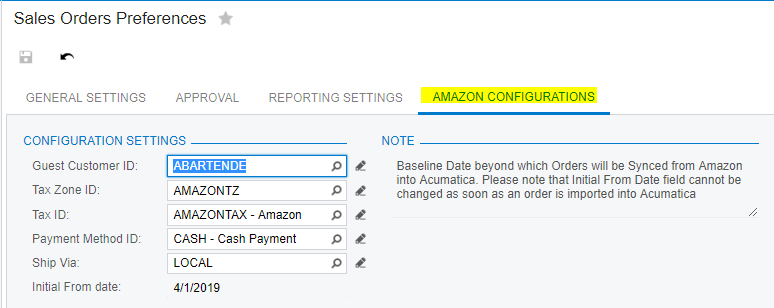
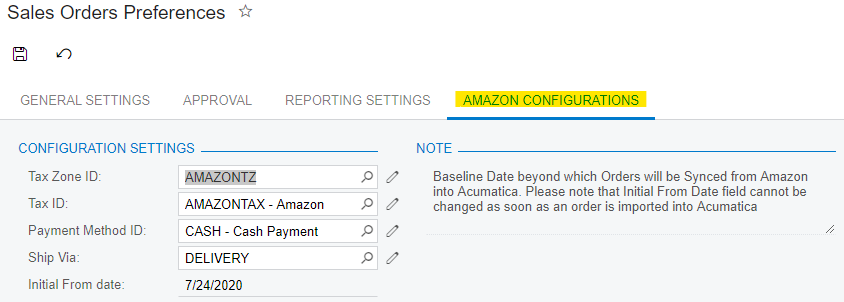
Update documentation for branch

diff --git a/README.md b/README.md
@@ -13,7 +13,7 @@ Seller sells and Amazon ships. Seller sends bulk products to Amazon’s fulfillm
 Seller lists the products on Amazon while handling storage and all aspects of order fulfillment. When products are sold, the integration imports FBM orders as sales orders. The seller is required to pick, pack, and ship products included on such orders. Shipment/Fulfilment details needs to be submitted back to Amazon using the integration. Amazon Orders with status Unshipped are retrieved during the import process.
 
 ### Prerequisites
-* Acumatica 2018 R2 (18.204.0013+) or higher
+* Acumatica 2019 R2 (18.210.0026+) or higher
 * Inventory/Stock, Products and Customers has to be setup prior using this integration. Product/Stock Item needs to be setup in Acumatica by either having matching Inventory ID OR Cross-Reference (Alternate ID) same as Amazon SellerSKU/ASIN (specified in Marketplace Configuration Field Mapping) 
 * This integration requires “Amazon Seller Professional Account” credentials for configuring integrations. Please visit (https://developer.amazonservices.com/) for more information on getting MWS Credentials.
 
@@ -39,7 +39,6 @@ Navigate to Sales Order Preferences (SO101000) -> Amazon Configuration Tab and s
 
  | Element               | Description |
  | :---                  | :--- |
- | **Guest Customer ID** | All imported Amazon orders will be associated to this specified customer.  |
  | **Tax Zone ID**       | This Tax ID will be default Tax ID to all imported Amazon orders. The details will be shown in Sales Order form’s Tax details tab. <ul><li>Only taxes which are created with the option “Propagate Manually Set Tax Amount from Sales Orders to Invoice” can be selected as default Tax ID</ul></li> |
  | **Payment Method ID** | This Payment Method will be applied to all imported Amazon orders. The details will be shown in Sales Order form’s Payments tab. |
  | **Ship Via**          | This Ship Via method will be applied to all imported Amazon orders. The details will be shown in Sales Order form’s Shipping settings tab. |
@@ -58,6 +57,7 @@ Marketplace Configuration Screen is used to control various features of the Inte
 | **Integration ID** | You can set a unique value that can be used to identify all the configuration details in other screens related to this integration ID. |
 | **Status** | This field is used to mark a specific Integration as Active / Inactive. If the integration is marked as Inactive, then system will not display the details/logs related to this specific integration. |
 | **Integration Type** | Available Integration Types : <ul><li>Amazon FBA</li><li>Amazon.ca FBA</li><li>Amazon.co.uk FBA</li><li>Amazon.de FBA</li><li>Amazon.jp FBA</li><li>Amazon.in FBA</li><li>Amazon FBM</li></ul> |
+| **Guest Customer ID** | All imported Amazon orders will be associated to this specified customer.  |
 | **Warehouse** | All active warehouses will be loaded from the system to select specific warehouse in Acumatica for order processing. All the imported orders under this specific integration will be associated to this configured warehouse by default. |
 | **Order Type** | All the active order types will be loaded from the system to select specific Order type. Based on the selected integration type these order type template will be loaded for selection. <ul><li>For FBA integrations types the system will display the “IN – Invoice” type templates for the selection, whereas for FBM Integration type it will display “SO – Sales Order” template order types.</li></ul> |
 | **Seller ID** | This field is used to configure the Amazon Marketplace Seller ID. |
@@ -205,8 +205,13 @@ Known Issues
 ------------
 None at the moment
 
+Upgrades from Master
+------------
+* Allow for customer to be assigned to a particular Amazon store
+* Truncate errors to 100 characters to avoid SQL error when capturing error to log
+
 ## Copyright and License
 
-Copyright © `2019` `Acumatica`
+Copyright © `2020` `Acumatica`
 
 This component is licensed under the MIT License, a copy of which is available online [here](LICENSE.md)
